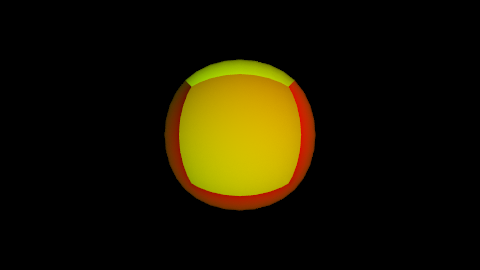
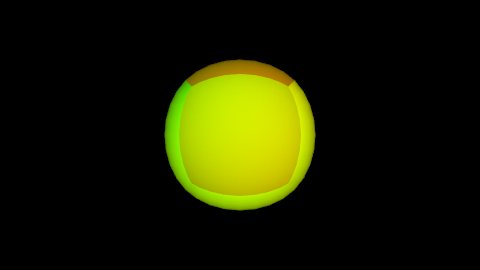
fix: wrong uv reading

Changed region(s): [[0.3438, 0.2074, 0.6562, 0.8]]

diff --git a/src/crayg/tests/TestUsdMeshReader.cpp b/src/crayg/tests/TestUsdMeshReader.cpp
@@ -145,8 +145,8 @@ TEST_CASE("UsdMeshReader::read") {
         REQUIRE(triangleMesh->uvsPrimVar != nullptr);
         REQUIRE(*triangleMesh->getUvsPrimVarAs<TriangleMeshPerVertexPrimVar<Vector2f>>() ==
                 std::vector<VertexData<Vector2f>>({
-                    VertexData(Vector2f{1, 0}, Vector2f{0, 0}, Vector2f{1, 1}),
-                    VertexData(Vector2f{0, 0}, Vector2f{1, 0}, Vector2f{1, 1}),
+                    VertexData(Vector2f{1, 1}, Vector2f{0, 1}, Vector2f{1, 0}),
+                    VertexData(Vector2f{0, 1}, Vector2f{1, 1}, Vector2f{1, 0}),
 
                 }));
     }
@@ -168,8 +168,8 @@ TEST_CASE("UsdMeshReader::read") {
         REQUIRE(triangleMesh->uvsPrimVar != nullptr);
         REQUIRE(*triangleMesh->getUvsPrimVarAs<TriangleMeshPerVertexPrimVar<Vector2f>>() ==
                 std::vector<VertexData<Vector2f>>({
-                    VertexData(Vector2f{0, 0}, Vector2f{1, 1}, Vector2f{1, 0}),
-                    VertexData(Vector2f{0, 0}, Vector2f{0, 1}, Vector2f{1, 1}),
+                    VertexData(Vector2f{0, 1}, Vector2f{1, 0}, Vector2f{1, 1}),
+                    VertexData(Vector2f{0, 1}, Vector2f{0, 0}, Vector2f{1, 0}),
                 }));
     }
 

diff --git a/src/crayg/src/sceneIO/read/usd/primitives/UsdMeshReader.cpp b/src/crayg/src/sceneIO/read/usd/primitives/UsdMeshReader.cpp
@@ -147,8 +147,13 @@ void UsdMeshReader::translateFaceVaryingUvs(std::shared_ptr<TriangleMesh> &trian
 
     auto data = static_cast<const pxr::GfVec2f *>(pxr::HdGetValueData(triangulated));
     for (auto id : triangleMesh->faceIds()) {
-        primVar->write(id, UsdConversions::convert(data[id * 3]), UsdConversions::convert(data[id * 3 + 2]),
-                       UsdConversions::convert(data[id * 3 + 1]));
+        Vector2f v0 = UsdConversions::convert(data[id * 3]);
+        v0.y = 1 - v0.y;
+        Vector2f v1 = UsdConversions::convert(data[id * 3 + 2]);
+        v1.y = 1 - v1.y;
+        Vector2f v2 = UsdConversions::convert(data[id * 3 + 1]);
+        v2.y = 1 - v2.y;
+        primVar->write(id, v0, v1, v2);
     }
 }
 

diff --git a/src/crayg/tests/TestUsdSubdivisionSurfaceMeshReader.cpp b/src/crayg/tests/TestUsdSubdivisionSurfaceMeshReader.cpp
@@ -28,7 +28,7 @@ TEST_CASE("UsdSubdivisionSurfaceMeshReader::read") {
         REQUIRE(subdivisionSurfaceMesh->faceVertexIndices == std::vector<int>({2, 3, 1, 0}));
         REQUIRE(subdivisionSurfaceMesh->faceVertexCounts == std::vector<int>({4}));
         REQUIRE(subdivisionSurfaceMesh->getMaterial()->getName() == "defaultMaterial");
-        REQUIRE(subdivisionSurfaceMesh->uvs == std::vector<Vector2f>({{0, 1}, {1, 1}, {0, 0}, {1, 0}}));
+        REQUIRE(subdivisionSurfaceMesh->uvs == std::vector<Vector2f>({{0, 0}, {1, 0}, {0, 1}, {1, 1}}));
         REQUIRE(subdivisionSurfaceMesh->uvIndices == std::vector<int>({0, 1, 2, 3}));
     }
 

diff --git a/src/crayg/src/sceneIO/read/usd/primitives/UsdSubdivisionSurfaceMeshReader.cpp b/src/crayg/src/sceneIO/read/usd/primitives/UsdSubdivisionSurfaceMeshReader.cpp
@@ -93,7 +93,9 @@ void UsdSubdivisionSurfaceMeshReader::translateUvs(
     uvsPrimVar->Get(&uvs, timeCodeToRead);
     subdivisionSurfaceMesh->uvs.reserve(uvs.size());
     for (auto &uv : uvs) {
-        subdivisionSurfaceMesh->uvs.push_back(UsdConversions::convert(uv));
+        Vector2f vec2f = UsdConversions::convert(uv);
+        vec2f.y = 1 - vec2f.y;
+        subdivisionSurfaceMesh->uvs.push_back(vec2f);
     }
 
     pxr::VtIntArray indices;
